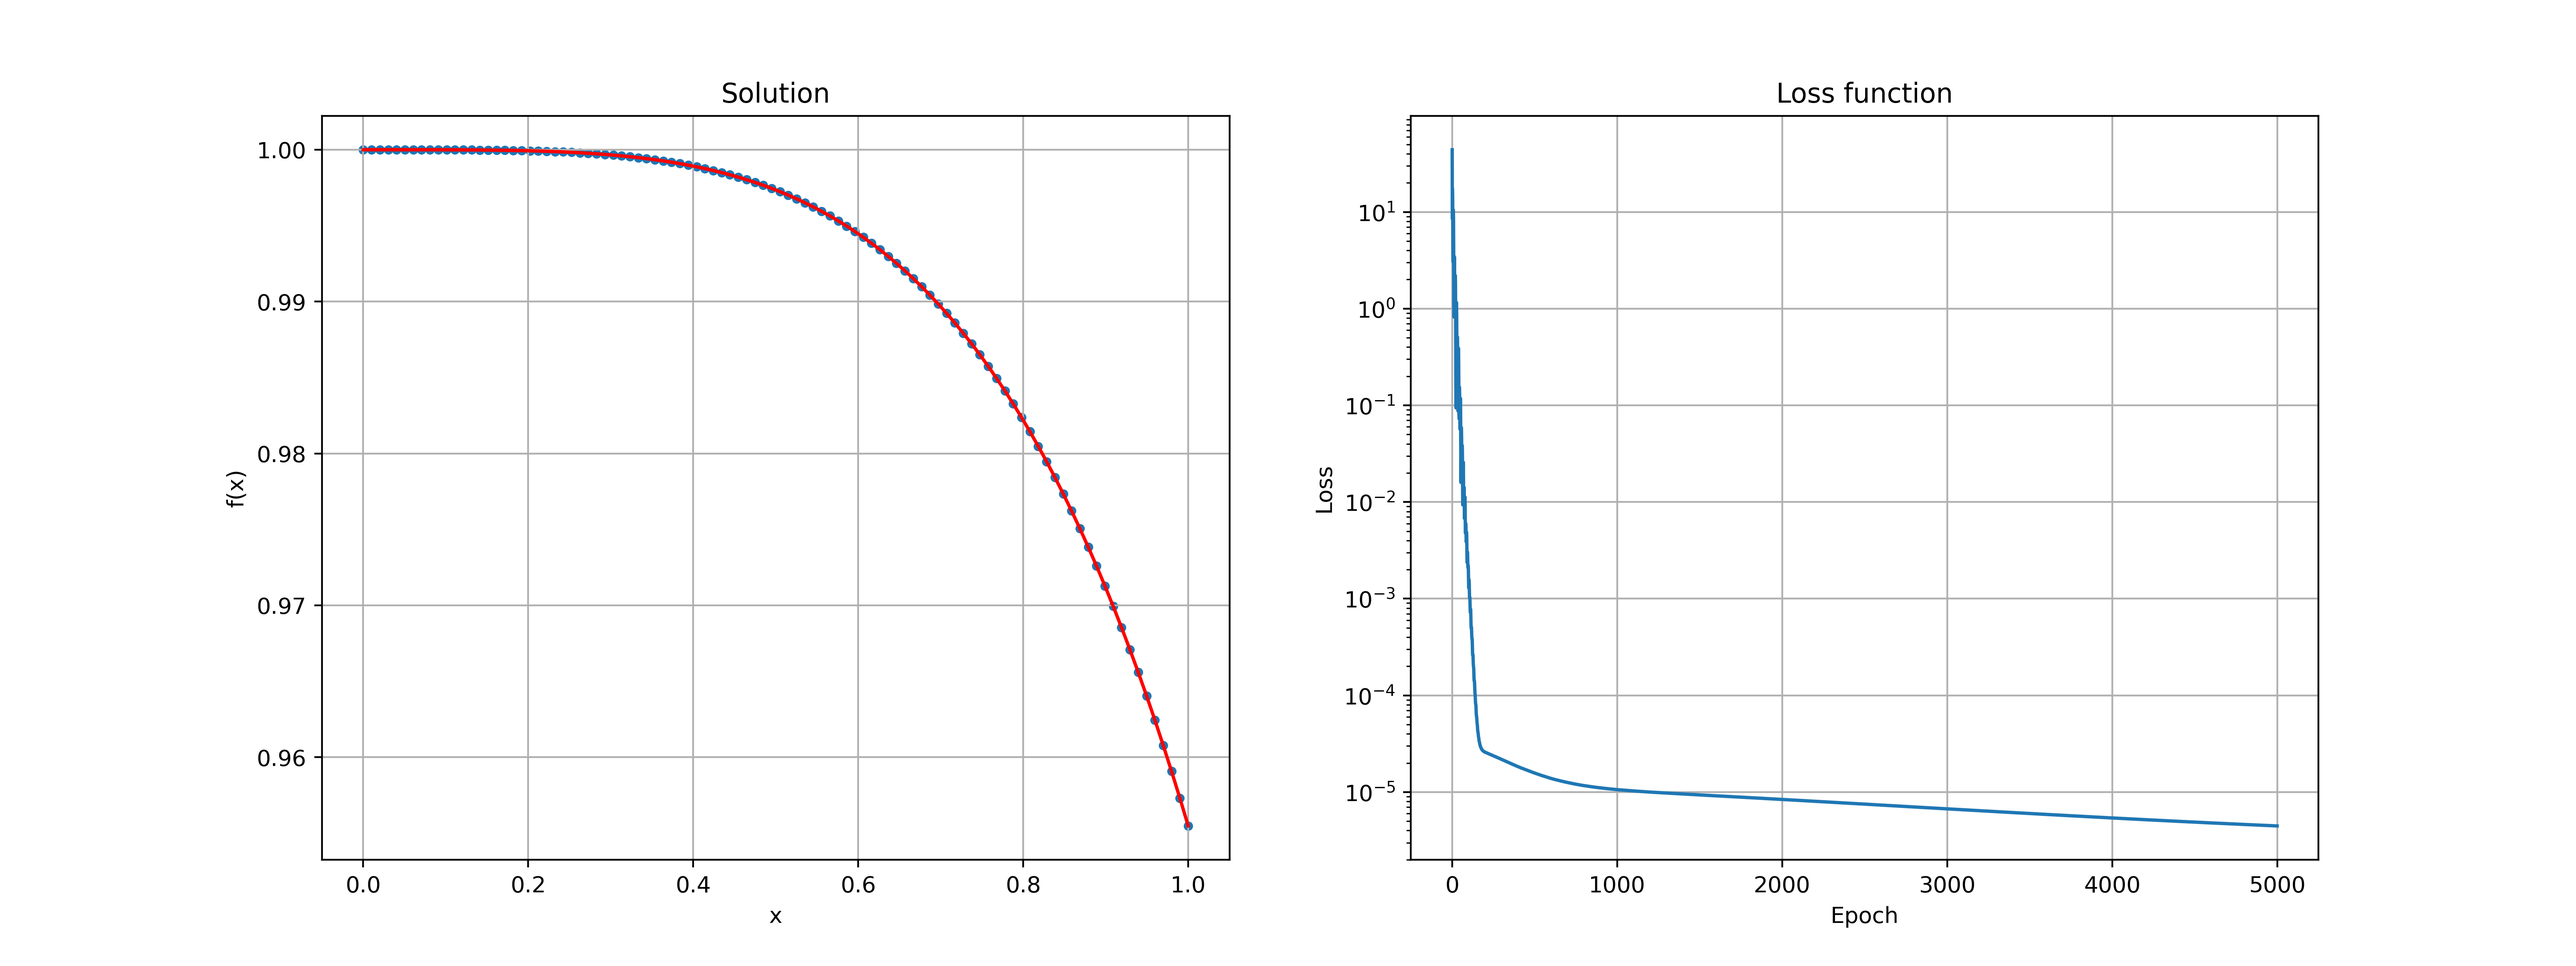
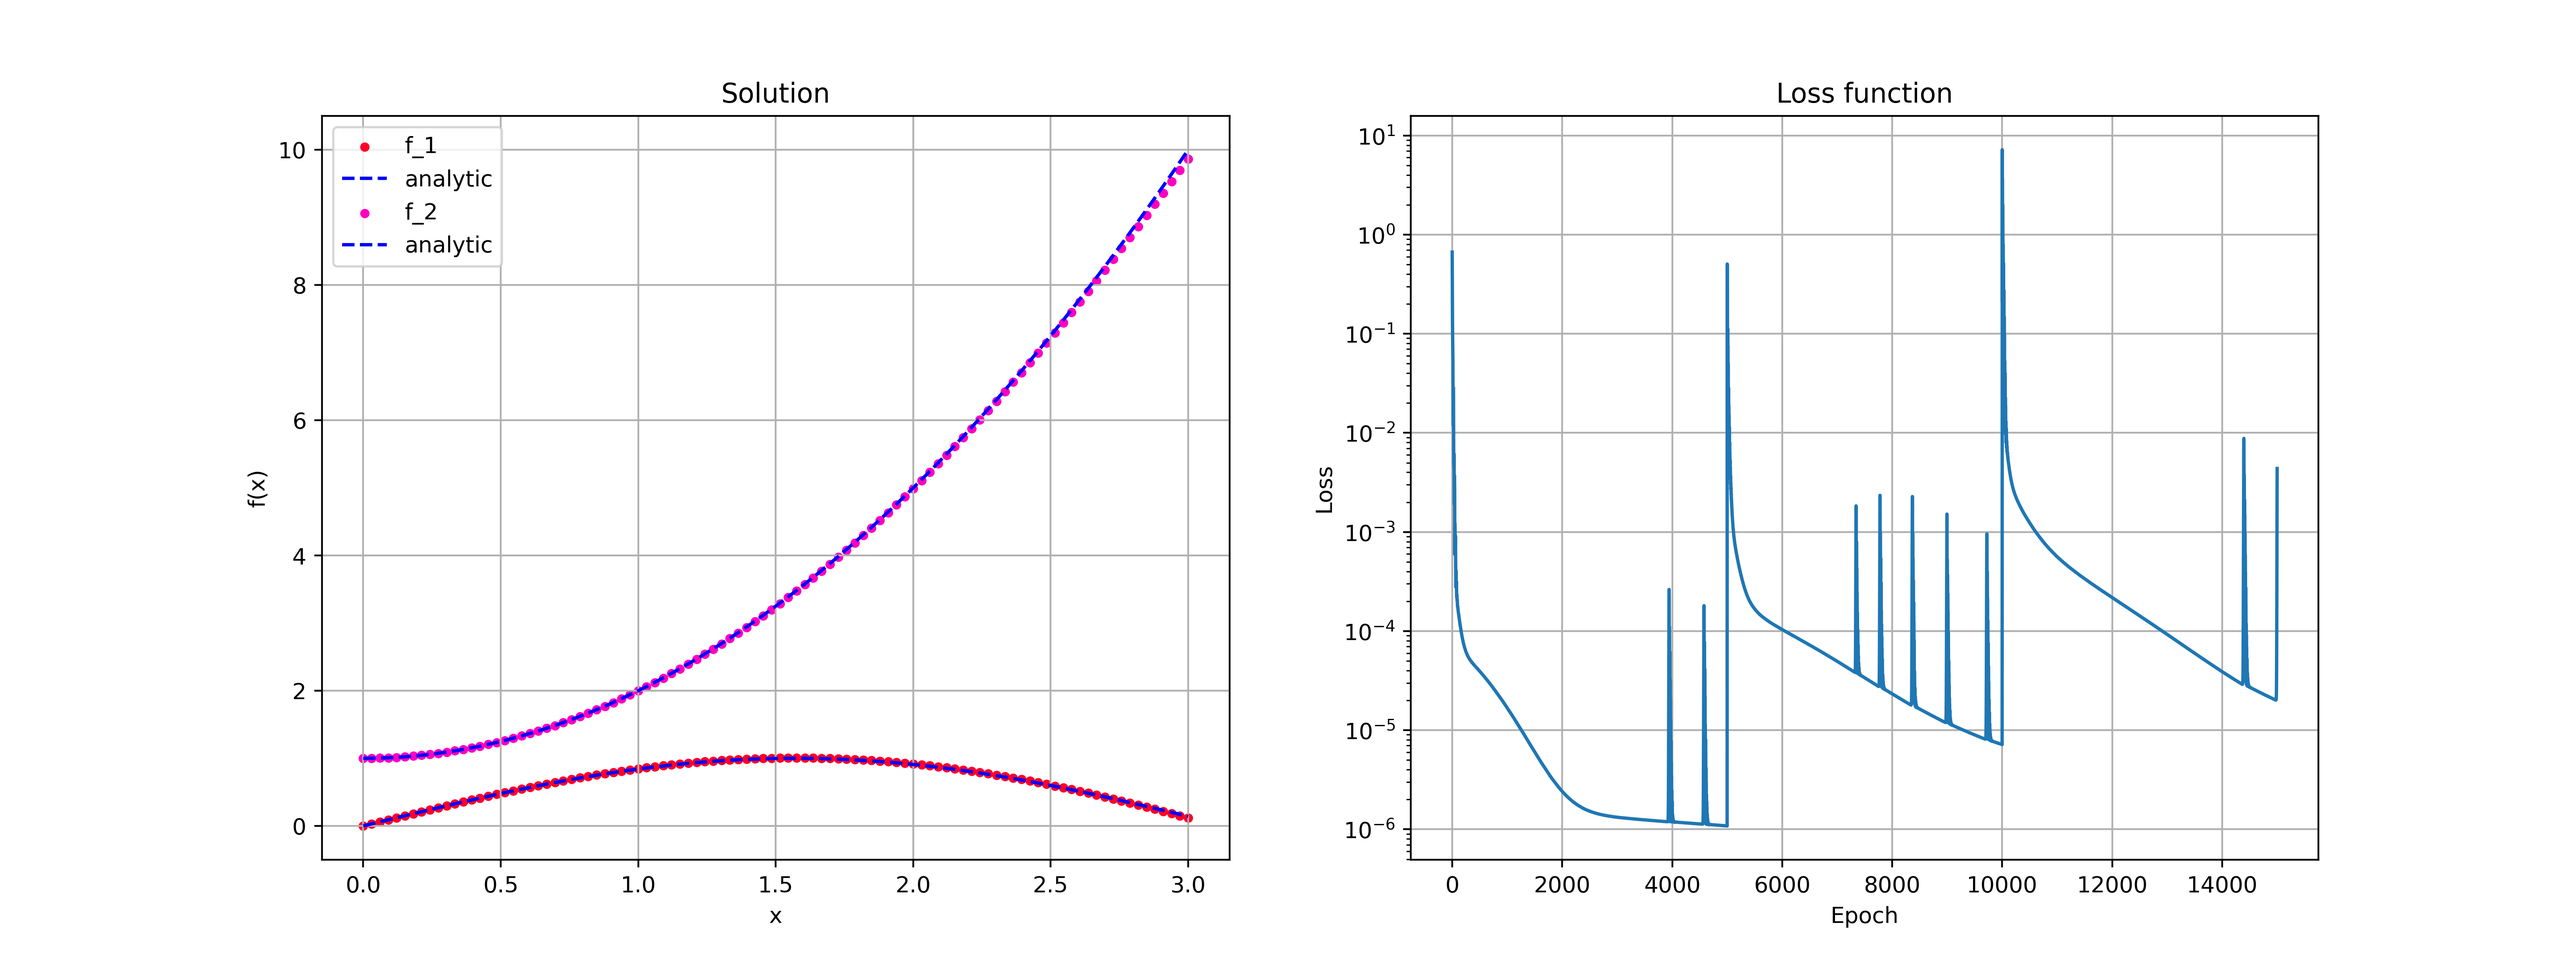
Arbitrary systems of ODEs

diff --git a/ODEs_solver.py b/ODEs_solver.py
@@ -1,0 +1,118 @@
+import numpy as np
+import matplotlib.pyplot as plt
+import torch
+import torch.nn as nn
+from torch.autograd import Variable
+import torch.optim
+
+
+NEURONS = 30
+HIDDEN_LAYERS = 2
+POINTS = 100
+
+
+def solve_ODE(a,b,equation,trial_function,multiorder,n_curr=1,max_iters=1000,lr=1e-3,gamma=0.98):
+    """This function solves an arbitrary ODE using a neural network. It uses the 'trial_function' and the 'equation' to calculate the loss function,
+    which is minimized using an Adam optimizer. We use curriculum learning, the number of steps can be controlled through n_curr. 
+    The parameters required are:
+    a: float, the start of the interval.
+    b: float, the end of the interval.
+    equation: tuple/list of the ODEs of the system to be solved.
+    trial_function: tuple/list, the trial functions to be used.
+    multiorder: tuple/list, the orders of each ODE.
+    n_curr=1
+    max_iters: int, the maximum number of iterations for the optimizer for each curriculum step. (default is 1000).
+    lr: float, the learning rate for the optimizer.(default is 1e-3).
+    gamma: float, the decay rate for the learning rate scheduler. (default is 0.98).
+    """
+
+    n = len(multiorder)  # Number of equations 
+
+    device = torch.device("cuda:0" if torch.cuda.is_available() else "cpu")
+    x_np = np.linspace(a,b,POINTS)
+    x = torch.Tensor(x_np,device=device).unsqueeze(1)
+    x.requires_grad_(True)
+
+    # NEURAL NETWORK
+    class NetODE(nn.Module):
+        def __init__(self):
+            super(NetODE,self).__init__()
+            self.input = nn.Linear(1,NEURONS)
+            self.hidden = nn.ModuleList([nn.Linear(NEURONS, NEURONS) for _ in range(HIDDEN_LAYERS - 1)])
+            self.output = nn.Linear(NEURONS,n)
+
+            self.act = nn.Tanh()
+        
+        def forward(self, x):
+            x = self.input(x)
+            x = self.act(x)
+            for linear_N_N in self.hidden:
+                x = linear_N_N(x)
+                x = self.act(x)
+            x = self.output(x)
+            return x
+
+    # LOSS FUNCTION
+    mse = nn.MSELoss()
+    def f_loss(NN,x):
+        N = []
+        for i in range(n):
+            N.append(NN[:,i:i+1])
+
+        Tf = trial_function(x,N)  # Stores the trial functions
+        args = []
+
+        for i in range(n):
+            args.append([Tf[i]])  # functions
+            for j in range(multiorder[i]):
+                args[i].append(torch.autograd.grad(args[i][j],x,create_graph=True, retain_graph=True,grad_outputs=torch.ones_like(args[i][j]))[0])  # their derivatives
+
+        ODEs = equation(x,args)
+        total = 0
+        for i in range(n):
+            total += mse(ODEs[i],torch.zeros_like(ODEs[i],device=device))
+
+        return total
+
+    net = NetODE().to(device)
+
+    v_loss = []
+
+    # TRAINING
+
+    n_curr = round(b-a)
+
+    for k in range(n_curr): # Curriculum training
+        x_np_curr = np.linspace(a,a+(b-a)*(k+1)/n_curr,POINTS)
+        x = torch.Tensor(x_np_curr,device=device).unsqueeze(1)
+        x.requires_grad_(True)
+        optimizer = torch.optim.Adam(net.parameters(), lr=lr)
+        scheduler = torch.optim.lr_scheduler.ExponentialLR(optimizer, gamma=gamma)
+
+        for epoch in range(max_iters):
+            NN = net(x)
+
+            loss = f_loss(NN,x)
+            v_loss.append(loss.item())
+
+            optimizer.zero_grad()
+            loss.backward()
+            optimizer.step()
+            
+            #if loss < tol: # In case the value of our loss function is lower than the tolerance, we stop the training.
+            #    print(f"{epoch} epochs. Loss: {loss}")
+            #    break
+
+            if epoch % 200 == 0:
+                print(f"{epoch} epochs. Loss: {loss}")
+                scheduler.step()
+
+    N = [NN[:,i:i+1] for i in range(n)]
+    Tfs = trial_function(x,N)
+
+    res = [Tf.detach().cpu().numpy() for Tf in Tfs]
+
+    np.savetxt(f'results.txt', np.hstack((x_np.reshape(-1,1),*res))) 
+
+    print(f"Loss: {v_loss[-1]} after {epoch} epochs.")
+    return res,v_loss

diff --git a/main.py b/main.py
@@ -1,36 +1,42 @@
 import numpy as np
 import matplotlib.pyplot as plt
-from ODEs_solver_1D import solve_ODE
+from matplotlib import colormaps
+from ODEs_solver import solve_ODE
 import torch
 
-tol = 1e-7
+tol = 0
 max_iters = 5000
 
 a = 0
-b = 1
+b = 3
 
-order = 4
+multiorder = (1,1) # List with the order of each equation
 
-# args is a list that contains the function f and its derivatives, in ascending order : args[:,0:1]=f, args[:,1:2]=f_x, args[:,2:3]=f_xx...
+# args is a list of nested lists that contain the functions f_k and theor respective derivatives, 
+# in ascending order : args[0][0]=f, args[0][1]]=f_x, args[1][0]=g...The example provided is the 4th problem of Lagaris article.
 def equation(x,args):
-    f = args[0]
-    f_x = args[1]
-    f_xx = args[2]
-    f_3x = args[3]
-    f_4x = args[4]
+    f = args[0][0]
+    f_x = args[0][1]
+    g = args[1][0]
+    g_x = args[1][1]
 
-    ODE = f_4x - 2*f_xx + f
-    return ODE
+    ODE_1 = f_x - torch.cos(x) - f**2 - g + (1+x**2 + torch.sin(x)**2)
+    ODE_2 = g_x - 2*x + (1+x**2)*torch.sin(x) - f*g
+    return (ODE_1,ODE_2)
             
 # Trial functions are of the form of A(x)N(x) + B(x), A vanishes in the fixed points and B satisfies explicitly the IC in those points
-def trial_function(x,N): #f(0) = 1; f'(0) = f''(0) = f'''(0) = 0
-    return x**4*N + 1
 
-f,v_loss = solve_ODE(a,b,equation,trial_function,order=order,max_iters=max_iters,tol=tol,lr=5e-3,gamma=0.93)
+def trial_function(x,N): #f(0) = 1; f'(0) = f''(0) = f'''(0) = 0
+    trial1 = x*N[0]
+    trial2 = 1 + x*N[1]
+    return (trial1,trial2)
+
+
+f,v_loss = solve_ODE(a,b,equation,trial_function,n_curr=3,multiorder=multiorder,max_iters=max_iters,lr=5e-3,gamma=0.94)
 
 # The analytic solution, just to compare.
 def sol_analyt(x):
-    return (1/2 - 1/4*x)*np.exp(x) + (1/2 + 1/4*x)*np.exp(-x)  # Symbolab...
+    return (np.sin(x),1+x**2)  # Symbolab...
 
 # PLOT THE RESULTS
 x = np.linspace(a,b,100)
@@ -39,8 +45,19 @@ axis_sol.grid(True)
 axis_sol.set_xlabel("x")
 axis_sol.set_ylabel("f(x)")
 axis_sol.set_title("Solution")
-axis_sol.scatter(x,f,s=10)  # NN solution
-axis_sol.plot(x,sol_analyt(x),color="r")  # Analytic solution
+
+n = len(multiorder)
+cmap = plt.get_cmap('gist_rainbow')
+if n == 1:
+    colors = 'r'
+else:
+    colors = [cmap(u) for u in np.linspace(0,1,n)]
+
+analytic = sol_analyt(x)
+for i in range(n):
+    axis_sol.scatter(x,f[i],s=10,color=colors[i], label=f"f_{i+1}")  # NN solution
+    axis_sol.plot(x,analytic[i],color='b',linestyle='dashed',label=f"analytic")  # Analytic solution
+axis_sol.legend()
 
 axis_loss.grid(True)
 axis_loss.set_yscale('log')
@@ -48,5 +65,6 @@ axis_loss.set_xlabel("Epoch")
 axis_loss.set_ylabel("Loss")
 axis_loss.set_title("Loss function")
 axis_loss.plot(v_loss)
+
 fig.savefig("resultados.png",dpi=400)
 plt.show()

diff --git a/main_1D.py b/main_1D.py
@@ -1,0 +1,52 @@
+import numpy as np
+import matplotlib.pyplot as plt
+from ODEs_solver_1D import solve_ODE
+import torch
+
+tol = 1e-7
+max_iters = 5000
+
+a = 0
+b = 1
+
+order = 4
+
+# args is a list that contains the function f and its derivatives, in ascending order : args[:,0:1]=f, args[:,1:2]=f_x, args[:,2:3]=f_xx...
+def equation(x,args):
+    f = args[0]
+    f_x = args[1]
+    f_xx = args[2]
+    f_3x = args[3]
+    f_4x = args[4]
+
+    ODE = f_4x - 2*f_xx + f
+    return ODE
+            
+# Trial functions are of the form of A(x)N(x) + B(x), A vanishes in the fixed points and B satisfies explicitly the IC in those points
+def trial_function(x,N): #f(0) = 1; f'(0) = f''(0) = f'''(0) = 0
+    return x**4*N + 1
+
+f,v_loss = solve_ODE(a,b,equation,trial_function,order=order,max_iters=max_iters,tol=tol,lr=5e-3,gamma=0.93)
+
+# The analytic solution, just to compare.
+def sol_analyt(x):
+    return (1/2 - 1/4*x)*np.exp(x) + (1/2 + 1/4*x)*np.exp(-x)  # Symbolab...
+
+# PLOT THE RESULTS
+x = np.linspace(a,b,100)
+fig,(axis_sol,axis_loss) = plt.subplots(ncols=2,figsize=(16,6))
+axis_sol.grid(True)
+axis_sol.set_xlabel("x")
+axis_sol.set_ylabel("f(x)")
+axis_sol.set_title("Solution")
+axis_sol.scatter(x,f,s=10)  # NN solution
+axis_sol.plot(x,sol_analyt(x),color="r")  # Analytic solution
+
+axis_loss.grid(True)
+axis_loss.set_yscale('log')
+axis_loss.set_xlabel("Epoch")
+axis_loss.set_ylabel("Loss")
+axis_loss.set_title("Loss function")
+axis_loss.plot(v_loss)
+fig.savefig("resultados.png",dpi=400)
+plt.show()

diff --git a/ODEs_solver_1D.py b/ODEs_solver_1D.py
@@ -27,7 +27,7 @@ def solve_ODE(a,b,equation,trial_function,order=2,max_iters=1000,tol=1e-7,lr=1e-
     """
 
     device = torch.device("cuda:0" if torch.cuda.is_available() else "cpu")
-    x_np = np.linspace(a,b,100)
+    x_np = np.linspace(a,b,POINTS)
     x = torch.Tensor(x_np,device=device).unsqueeze(1)
     x.requires_grad_(True)
 

diff --git a/README.md b/README.md
@@ -1,8 +1,8 @@
 # Solving ODEs with Neural Networks.
 
-This repository contains scripts and functions to solve ordinary differential equations (ODEs) using feedforward neural networks. The optimizer used is ADAM combined with LRExponential as scheduler.
+This repository contains scripts and functions to solve systems of ordinary differential equations (ODEs) using feedforward neural networks. The optimizer used is ADAM combined with LRExponential as scheduler. Curriculum learning is also used.
 
-The ODEs must be defined in the form $F(x,f,f',...,f^{(n)}) = 0$
+The ODEs must be defined in the form $F(x,f_1,f_1',...,f^{(n)},f_2,...) = 0$
 
 Initial conditions for the initial value problems are enforced through trial functions, whose structure will always be the same:
 
@@ -12,19 +12,23 @@ where $A(x)$ and its derivatives vashish in the points where initial conditions 
 
 In addition to the equation and the trial function, there are some parameters that must be specified:
 - The domain of the solution, as an interval: (a,b)
-- The order of the equation (by default is 1)
+- The 'multiorder' of the equation: the order of each equation of the system, as a list. (by default is 1)
+- The number of curriculum 'steps' (by default will be one)
 - The learning rate of the optimizer (by default is 1e-3)
 - The parameter gamma of the scheduler (by default is 0.99).
-- The maximum number of epochs: max_iters (by default will be 1000).
-- The acceptable tolerance of the loss function (by default is 1e-7). In case we want to ignore it, and run for a certain number of iterations, we can set it to 0.
+- The maximum number of epochs for each curriculum step: max_iters (by default will be 1000).
 
-The useful files of the project are ODEs_solver_1D.py, which includes a function that create the nn and solves the equation; and main.py, which will allow us to run such function. An order 4 ODE is provided (together with its analytic solution) as an example
+The useful files of the project are ODEs_solver.py, which includes a function that create the nn and solves the system of equations; and main.py, which will allow us to run such function. An system of two equations is provided (together with its analytic solution) as an example (Problem 4, Lagaris).
 
- There are also two files tagged as 'order2' that are a primitive version of the code, and can only solve up to order 2.
+ There are also two files tagged as '1D' that are a primitive version of the code, and can only solve a single scalar equation (of an arbitrary order).
 
  All of this work follows the method described in the following article by Lagaris, Likas and Fotiadis (1998):
 
  Lagaris, I.E., Likas, A., & Fotiadis, D.I. (1998). Artificial neural networks for solving ordinary and partial differential equations. IEEE Transactions on Neural Networks, 9(5), 987–1000. DOI: [10.1109/72.712178](https://ieeexplore.ieee.org/document/712178).
 
-
-
+ # Improvements to be implemented
+ - Batch training: currently I'm using a single batch.
+ - Hyperparameters optimization: it's done by hand right now.
+ - Normalization of the inputs and changing the equation to work in the normalized space (the derivatives basically).
+ - Better initialization of parameters: Xavier maybe...
+ - ...
